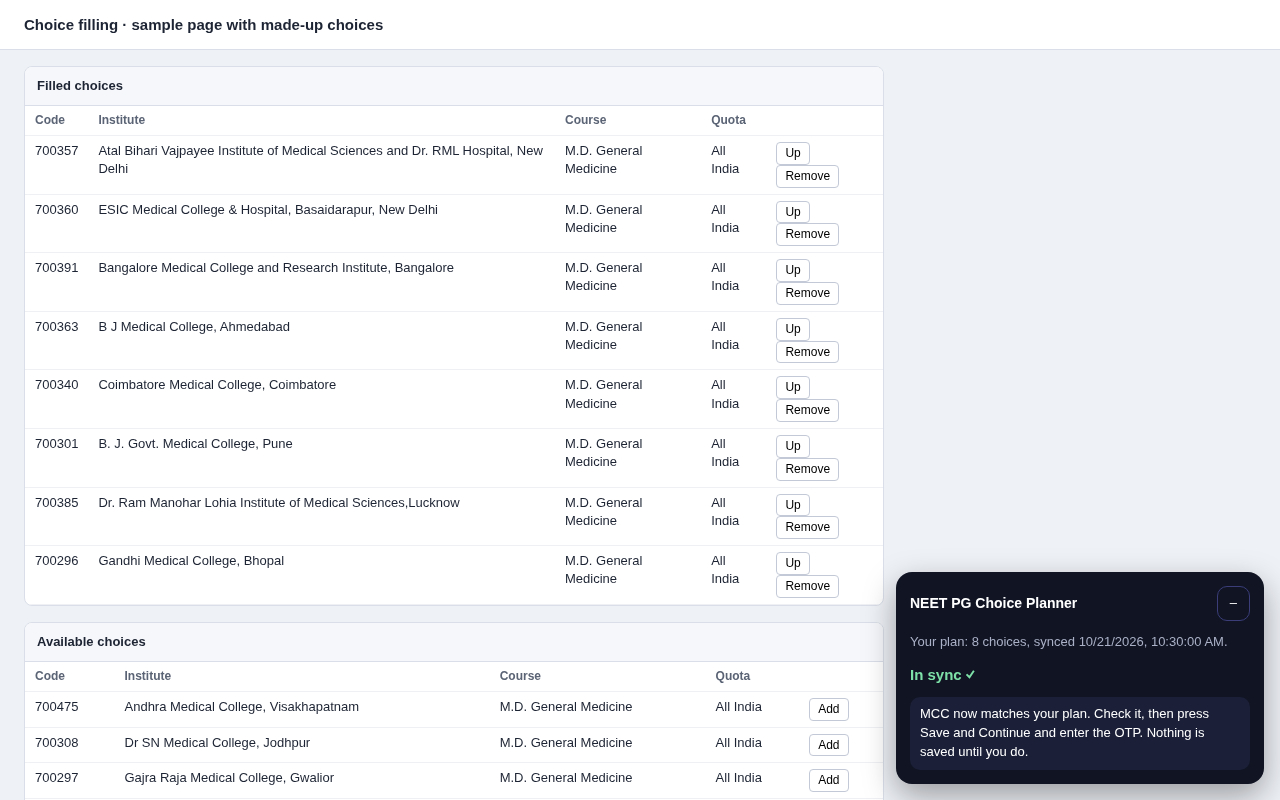
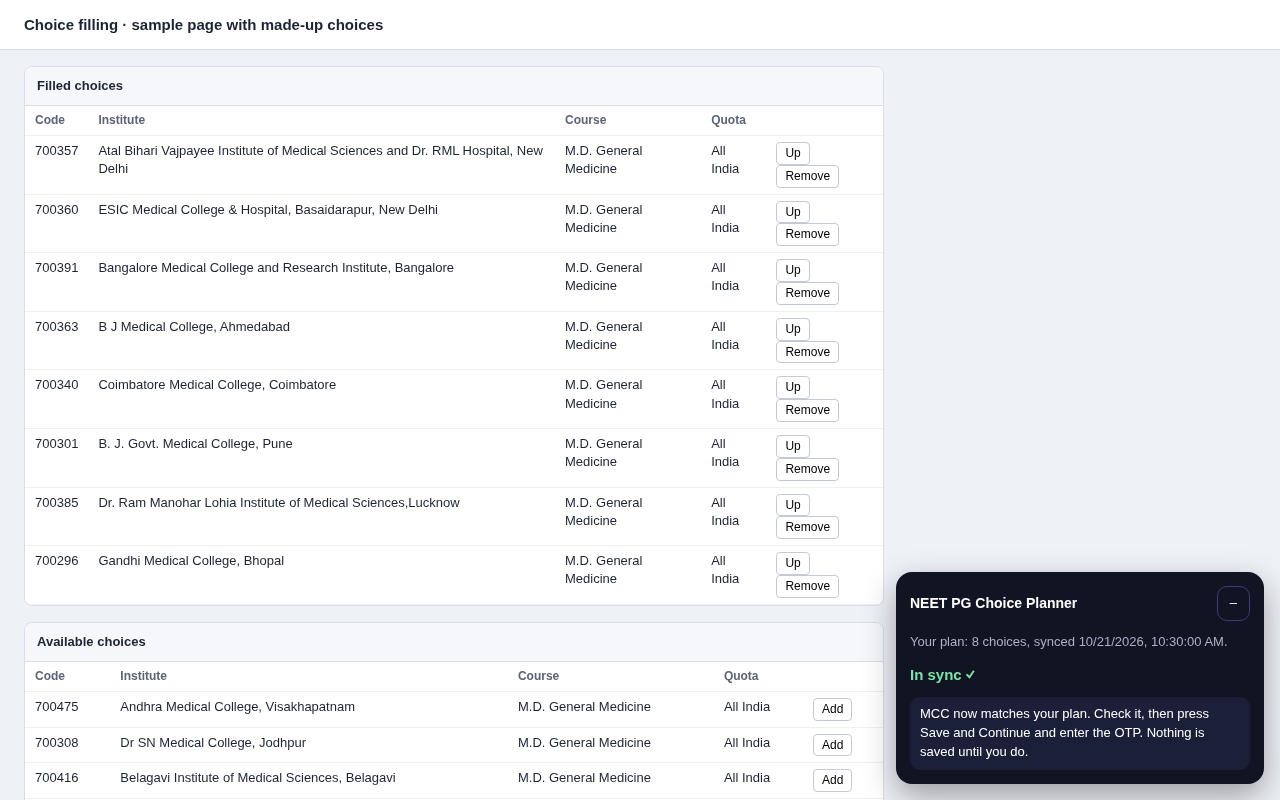
Drop a duplicate sample choice code

diff --git a/docs/store-assets/sample-portal.html b/docs/store-assets/sample-portal.html
@@ -35,7 +35,7 @@
 <header>Choice filling · sample page with made-up choices</header>
 <main>
   <section><h2>Filled choices</h2><table id="filledChoiceContainer"><tr><th>Code</th><th>Institute</th><th>Course code</th><th>Course</th><th>Type</th><th>Quota</th><th></th></tr><tr><td>700360</td><td>ESIC Medical College &amp; Hospital, Basaidarapur, New Delhi</td><td>GMED</td><td>M.D. General Medicine</td><td>Government</td><td>All India</td><td><button class="Up">Up</button> <button class="fChoice">Remove</button></td></tr><tr><td>700357</td><td>Atal Bihari Vajpayee Institute of Medical Sciences and Dr. RML Hospital, New Delhi</td><td>GMED</td><td>M.D. General Medicine</td><td>Government</td><td>All India</td><td><button class="Up">Up</button> <button class="fChoice">Remove</button></td></tr><tr><td>700391</td><td>Bangalore Medical College and Research Institute, Bangalore</td><td>GMED</td><td>M.D. General Medicine</td><td>Government</td><td>All India</td><td><button class="Up">Up</button> <button class="fChoice">Remove</button></td></tr><tr><td>701506</td><td>BRD Medical College, Gorakhpur</td><td>GMED</td><td>M.D. General Medicine</td><td>Government</td><td>All India</td><td><button class="Up">Up</button> <button class="fChoice">Remove</button></td></tr><tr><td>700340</td><td>Coimbatore Medical College, Coimbatore</td><td>GMED</td><td>M.D. General Medicine</td><td>Government</td><td>All India</td><td><button class="Up">Up</button> <button class="fChoice">Remove</button></td></tr><tr><td>700363</td><td>B J Medical College, Ahmedabad</td><td>GMED</td><td>M.D. General Medicine</td><td>Government</td><td>All India</td><td><button class="Up">Up</button> <button class="fChoice">Remove</button></td></tr><tr><td>700398</td><td>Calcutta National Medical College, Kolkata</td><td>GMED</td><td>M.D. General Medicine</td><td>Government</td><td>All India</td><td><button class="Up">Up</button> <button class="fChoice">Remove</button></td></tr></table></section>
-  <section><h2>Available choices</h2><table id="avlChoiceContainer"><tr><th>Code</th><th>Institute</th><th>Course code</th><th>Course</th><th>Type</th><th>Quota</th><th></th></tr><tr><td>700301</td><td>B. J. Govt. Medical College, Pune</td><td>GMED</td><td>M.D. General Medicine</td><td>Government</td><td>All India</td><td><button class="aChoice">Add</button></td></tr><tr><td>700385</td><td>Dr. Ram Manohar Lohia Institute of Medical Sciences,Lucknow</td><td>GMED</td><td>M.D. General Medicine</td><td>Government</td><td>All India</td><td><button class="aChoice">Add</button></td></tr><tr><td>700296</td><td>Gandhi Medical College, Bhopal</td><td>GMED</td><td>M.D. General Medicine</td><td>Government</td><td>All India</td><td><button class="aChoice">Add</button></td></tr><tr><td>700475</td><td>Andhra Medical College, Visakhapatnam</td><td>GMED</td><td>M.D. General Medicine</td><td>Government</td><td>All India</td><td><button class="aChoice">Add</button></td></tr><tr><td>700308</td><td>Dr SN Medical College, Jodhpur</td><td>GMED</td><td>M.D. General Medicine</td><td>Government</td><td>All India</td><td><button class="aChoice">Add</button></td></tr><tr><td>700297</td><td>Gajra Raja Medical College, Gwalior</td><td>GMED</td><td>M.D. General Medicine</td><td>Government</td><td>All India</td><td><button class="aChoice">Add</button></td></tr></table></section>
+  <section><h2>Available choices</h2><table id="avlChoiceContainer"><tr><th>Code</th><th>Institute</th><th>Course code</th><th>Course</th><th>Type</th><th>Quota</th><th></th></tr><tr><td>700301</td><td>B. J. Govt. Medical College, Pune</td><td>GMED</td><td>M.D. General Medicine</td><td>Government</td><td>All India</td><td><button class="aChoice">Add</button></td></tr><tr><td>700385</td><td>Dr. Ram Manohar Lohia Institute of Medical Sciences,Lucknow</td><td>GMED</td><td>M.D. General Medicine</td><td>Government</td><td>All India</td><td><button class="aChoice">Add</button></td></tr><tr><td>700296</td><td>Gandhi Medical College, Bhopal</td><td>GMED</td><td>M.D. General Medicine</td><td>Government</td><td>All India</td><td><button class="aChoice">Add</button></td></tr><tr><td>700475</td><td>Andhra Medical College, Visakhapatnam</td><td>GMED</td><td>M.D. General Medicine</td><td>Government</td><td>All India</td><td><button class="aChoice">Add</button></td></tr><tr><td>700308</td><td>Dr SN Medical College, Jodhpur</td><td>GMED</td><td>M.D. General Medicine</td><td>Government</td><td>All India</td><td><button class="aChoice">Add</button></td></tr><tr><td>700416</td><td>Belagavi Institute of Medical Sciences, Belagavi</td><td>GMED</td><td>M.D. General Medicine</td><td>Government</td><td>All India</td><td><button class="aChoice">Add</button></td></tr><tr><td>700297</td><td>Gajra Raja Medical College, Gwalior</td><td>GMED</td><td>M.D. General Medicine</td><td>Government</td><td>All India</td><td><button class="aChoice">Add</button></td></tr></table></section>
 </main>
 <script>
   const filledTable = document.querySelector("#filledChoiceContainer")

diff --git a/docs/store-assets/build_sample_portal.py b/docs/store-assets/build_sample_portal.py
@@ -9,7 +9,7 @@ general_medicine = {choice["instcd"]: choice for choice in catalog["choices"] if
 
 plan_codes = ["700357", "700360", "700391", "700363", "700340", "700301", "700385", "700296"]
 filled_codes = ["700360", "700357", "700391", "701506", "700340", "700363", "700398"]
-available_codes = plan_codes + ["701506", "700398", "700475", "700308", "701506", "700297"]
+available_codes = plan_codes + ["701506", "700398", "700475", "700308", "700416", "700297"]
 
 
 def choice(code):
